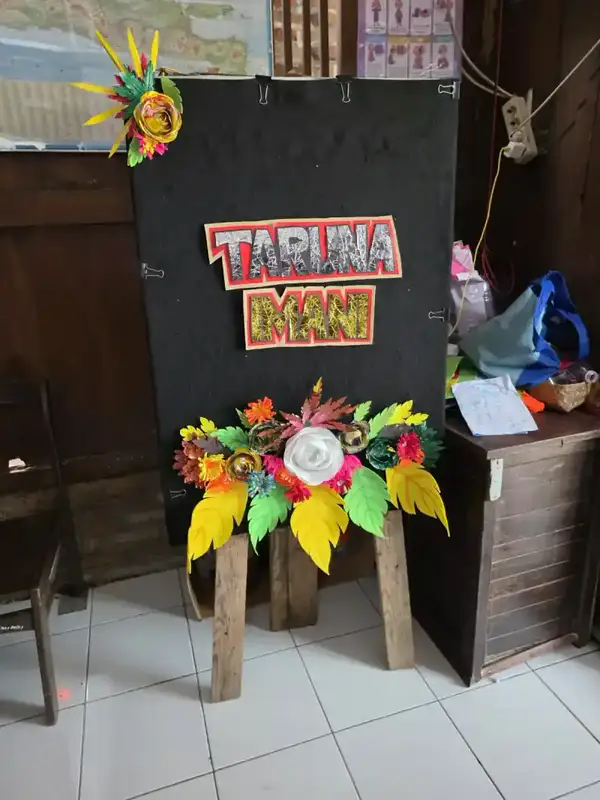
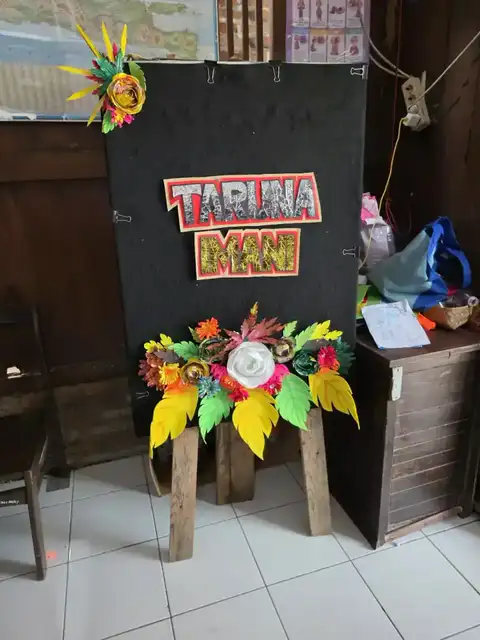
perf(home): advance mobile hero compression marker
Diminta oleh Syauqi (via MinTiv)

diff --git a/index.html b/index.html
@@ -1,7 +1,7 @@
 <!DOCTYPE html>
 <html lang="id">
 <!-- deploy-marker: YUKA-EDGE-VERIFY-20260731 -->
-<!-- lcp-revision: 20260926-cls-fix -->
+<!-- lcp-revision: 20260926-98ad790-v2 -->
 <head>
     <meta charset="UTF-8">
     <meta name="viewport" content="width=device-width, initial-scale=1.0">
